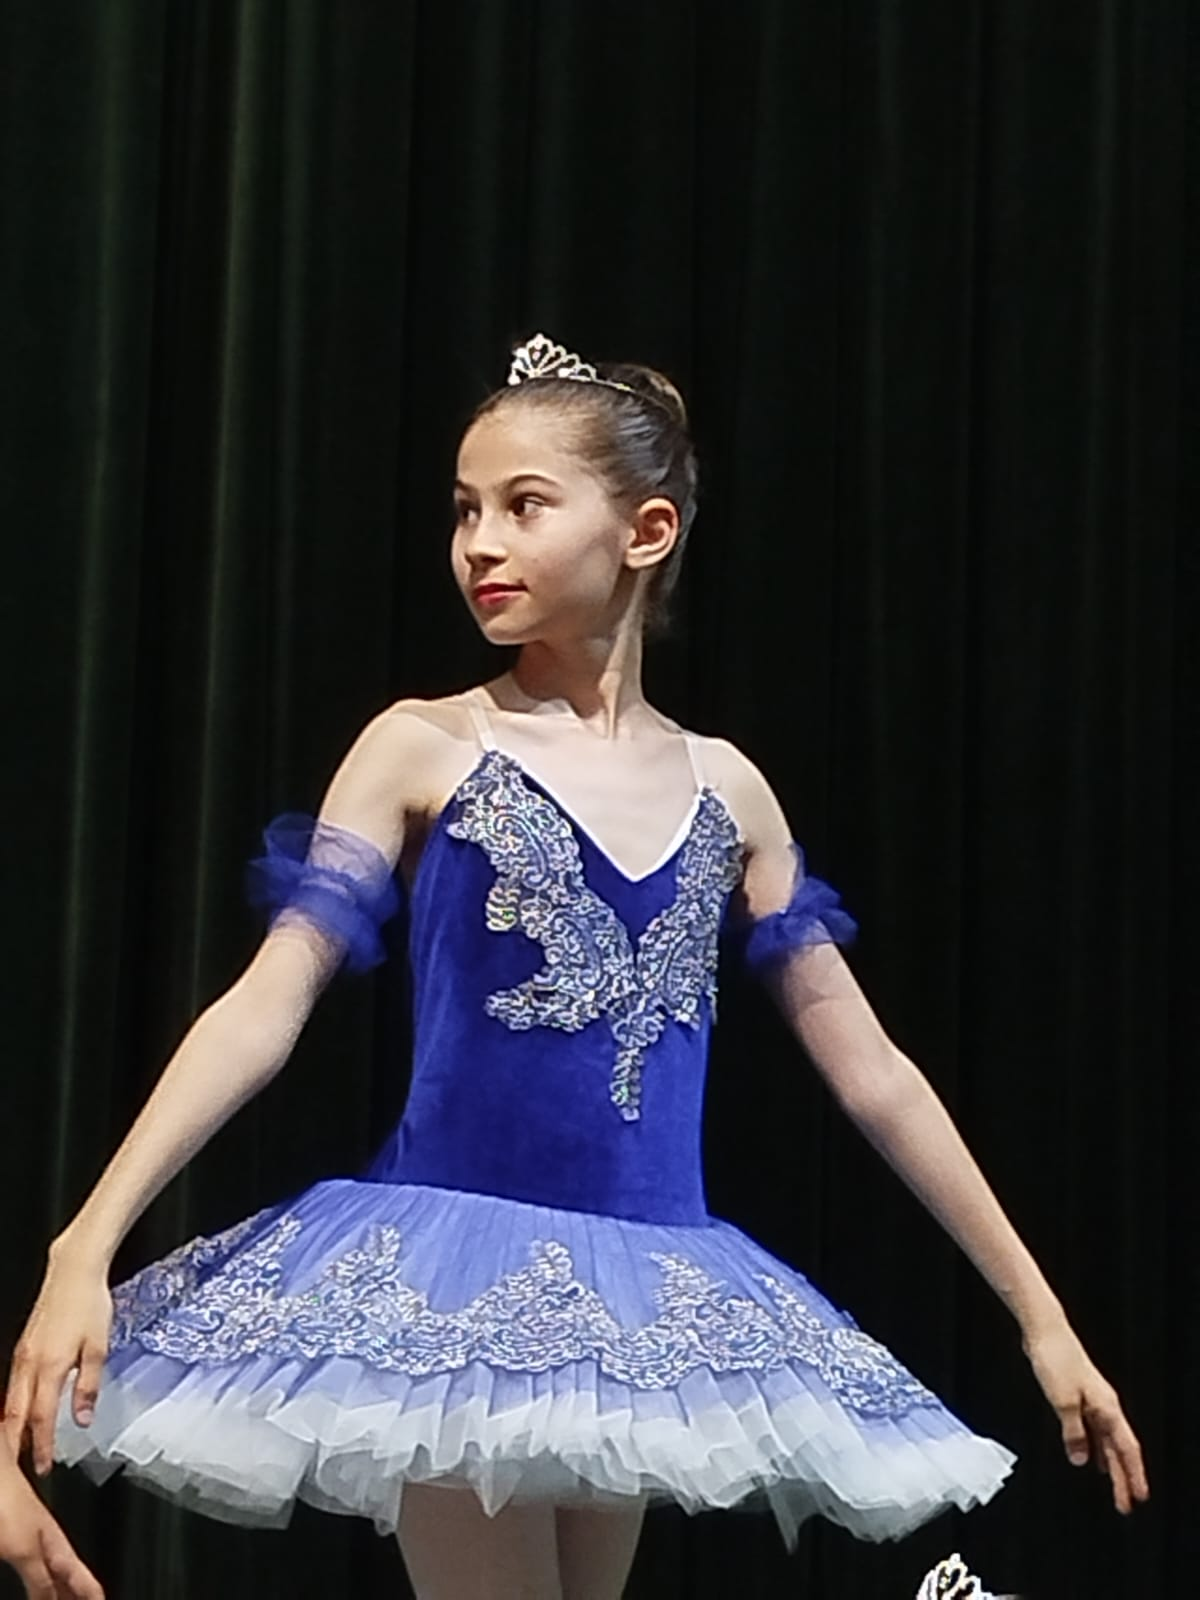
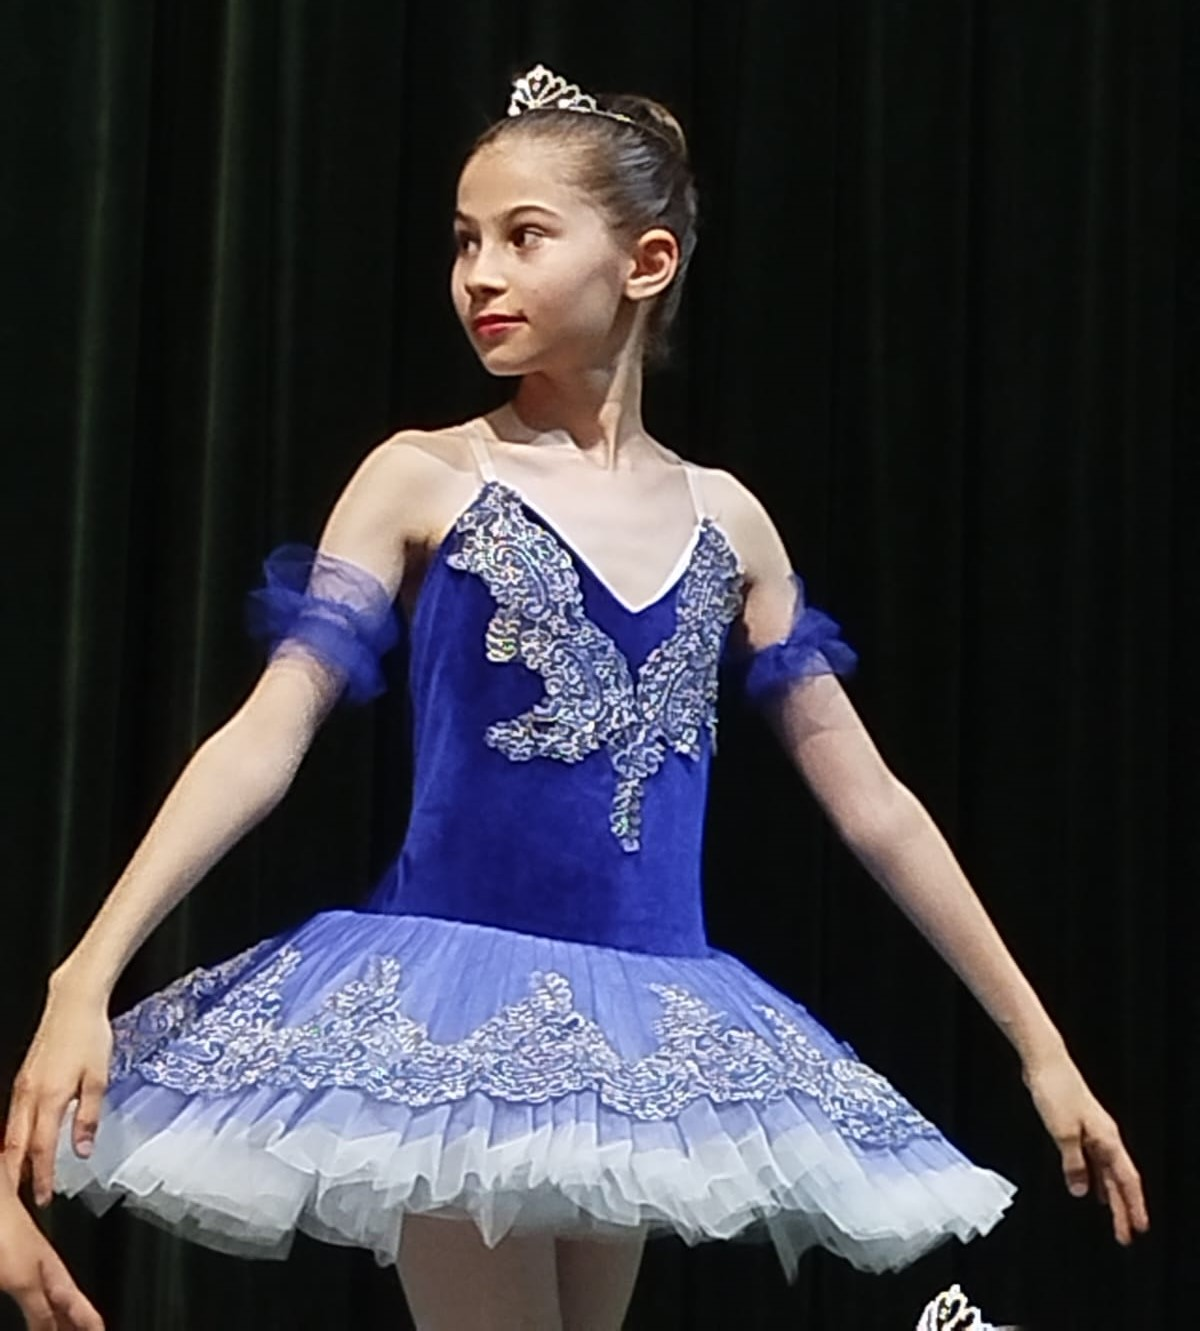
resize of images, add hover:text-white in active link

diff --git a/components/Navbar.js b/components/Navbar.js
@@ -67,7 +67,7 @@ const Navbar = () => {
                   href={item.href}
                   className={
                     pathName.substring(0, 7) === item.href.substring(0, 7)
-                      ? 'underline underline-offset-4 text-fuchsia-600'
+                      ? 'underline underline-offset-4 text-fuchsia-600 hover:text-white'
                       : null
                   }
                 >
@@ -94,7 +94,7 @@ const Navbar = () => {
                     href={item.href}
                     className={
                       pathName.substring(0, 7) === item.href.substring(0, 7)
-                        ? 'underline underline-offset-4 text-fuchsia-600'
+                        ? 'underline underline-offset-4 text-fuchsia-600 hover:text-white'
                         : null
                     }
                   >
